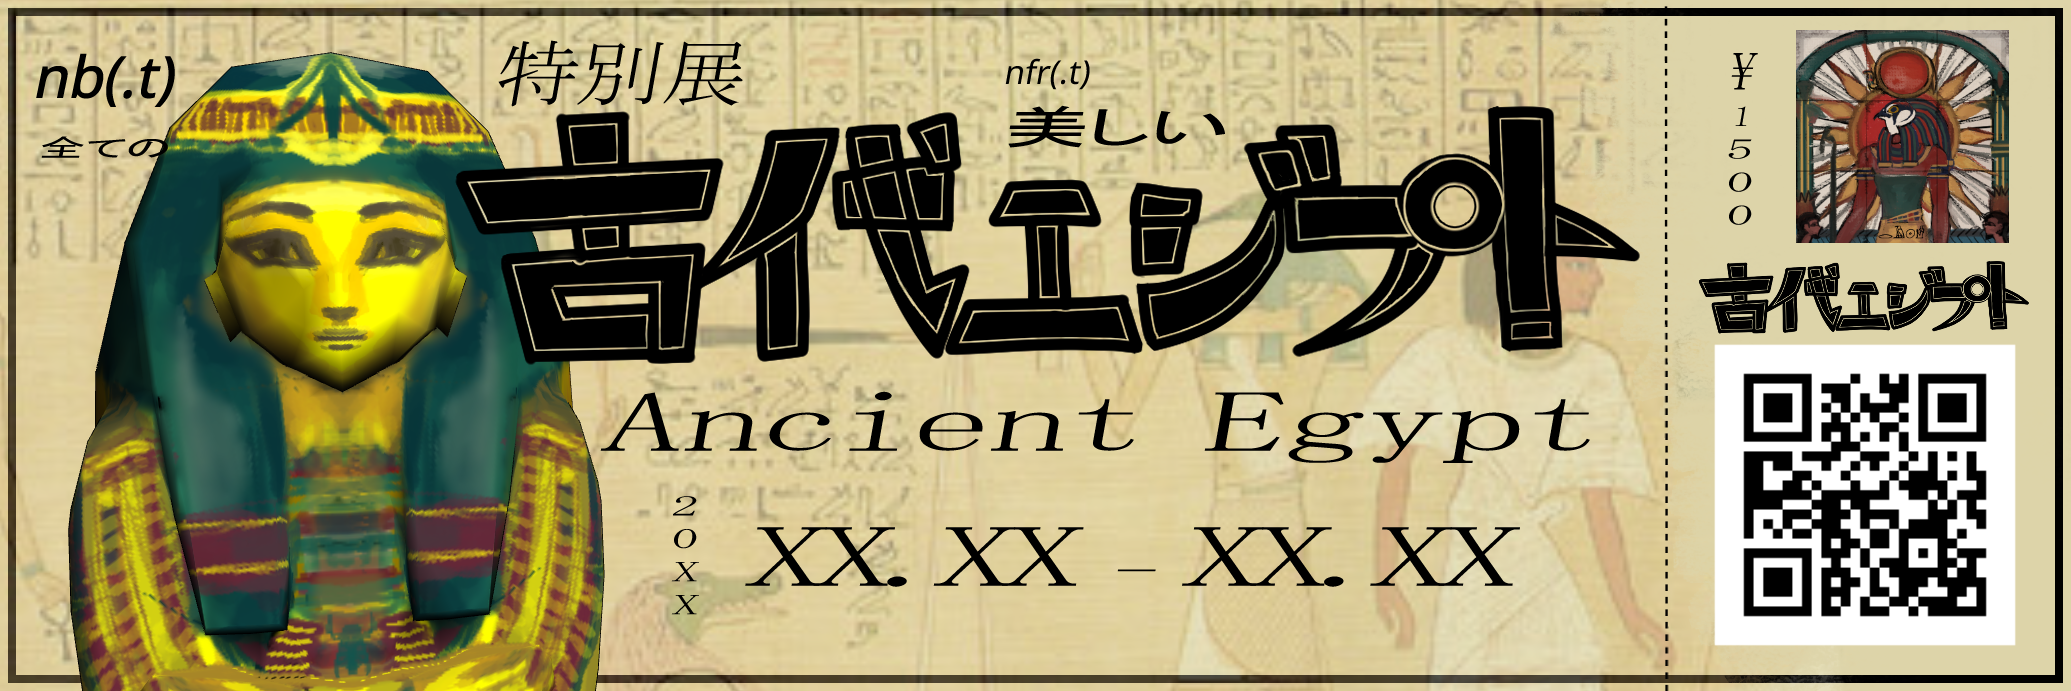
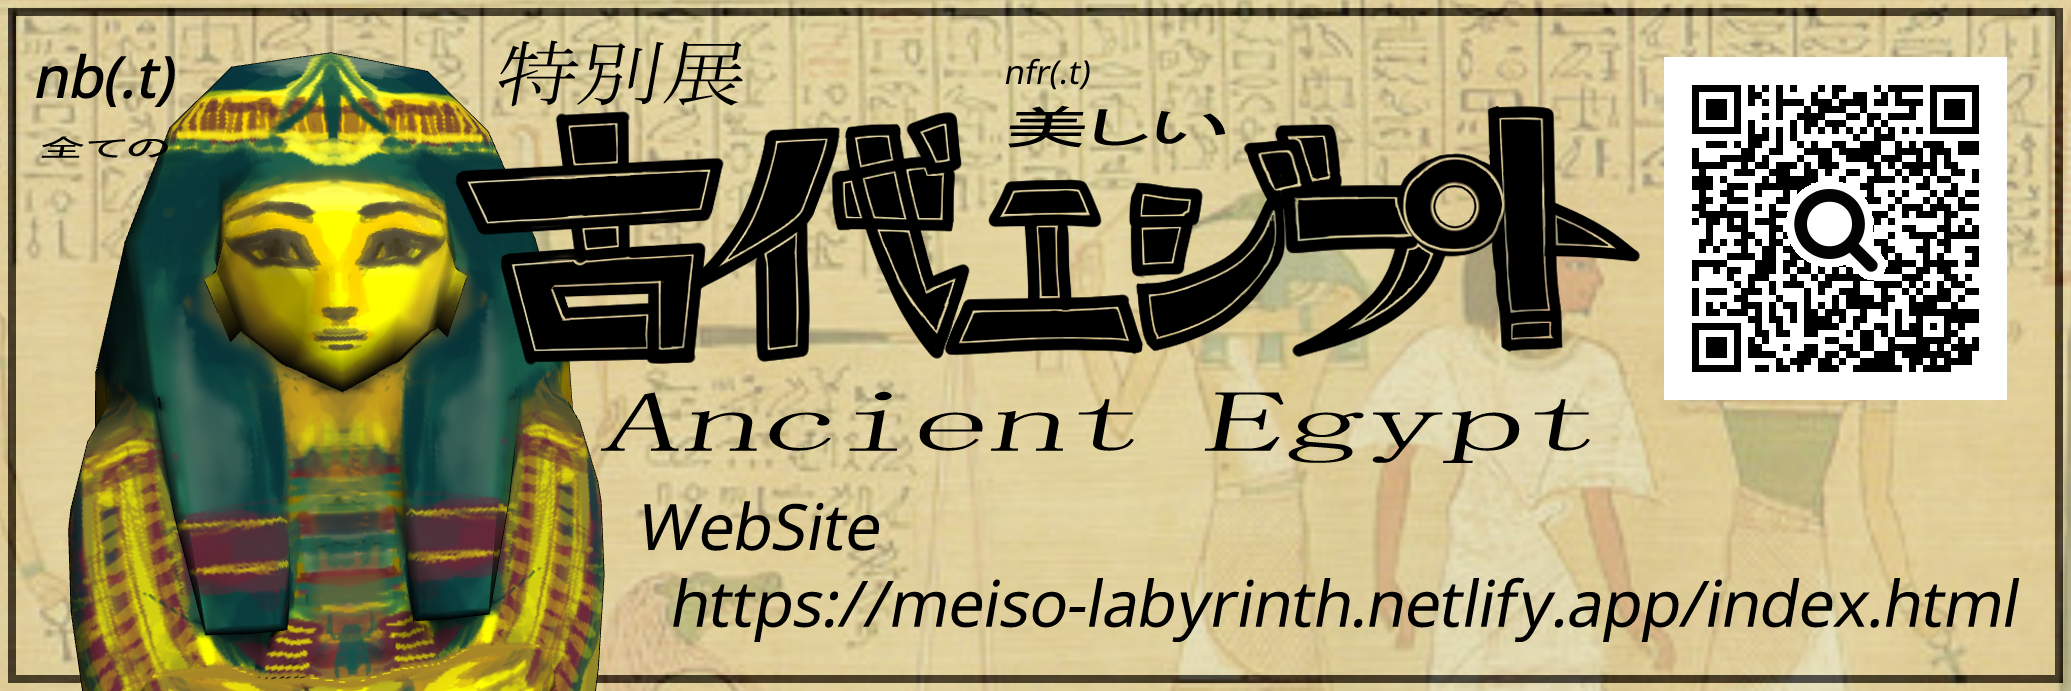
QRコードとか変えた

Changed region(s): [[0.309, 0.0, 1.0, 1.0]]

diff --git a/project/PasswordText.h b/project/PasswordText.h
@@ -1,0 +1,16 @@
+#pragma once
+#include"../Engine/FreeTypeManager/Text.h"
+
+class PasswordText
+{
+public:
+    void Initialize();
+    void Update();
+    void Draw();
+private:
+    std::u32string inputText_;
+    Text text_;
+    uint32_t handle_;
+
+};
+

diff --git a/project/PasswordText.cpp b/project/PasswordText.cpp
@@ -1,0 +1,5 @@
+#include "PasswordText.h"
+
+void PasswordText::Initialize()
+{
+}
